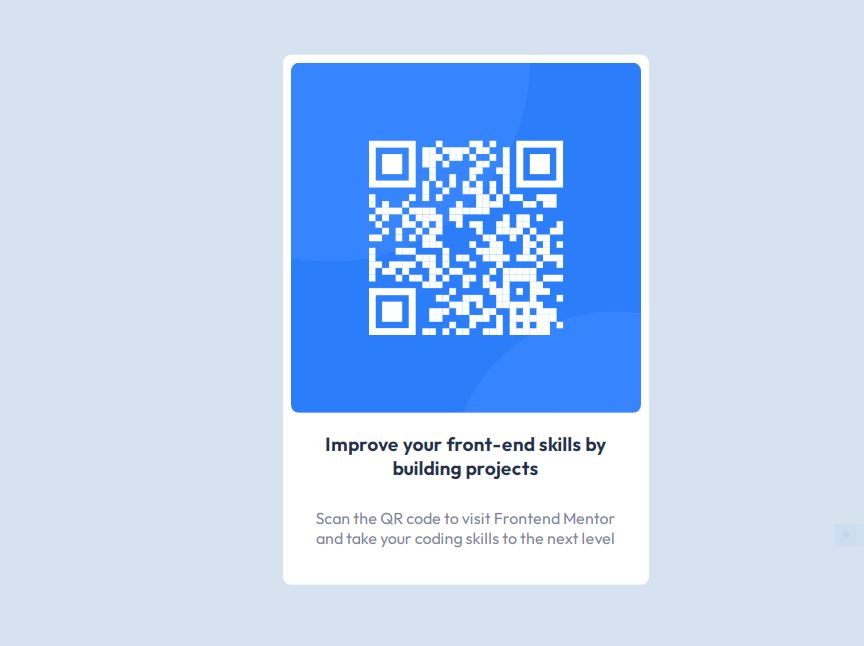
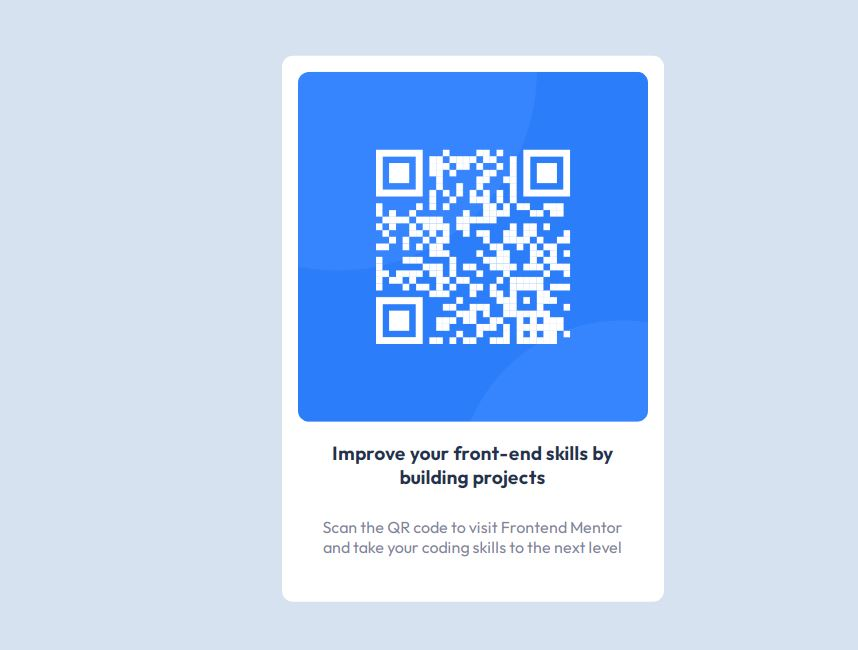
adjusting design

Changed region(s): [[0.3333, 0.0929, 0.7879, 0.9288], [0.4242, 0.2167, 0.6667, 0.5573]]

diff --git a/index.html b/index.html
@@ -8,24 +8,26 @@
   <title>Frontend Mentor | QR code component</title>
 </head>
 <body>
-  <main>
-    <section>
-      <div class="container">
-
-        <div class="qr-code-image-container">
-          <img src = "images/image-qr-code.png" alt ="QR code for frontendmentor.io"/>
+  <div class="main-container">
+    <main>
+      <section>
+        <div class="container">
+  
+          <div class="qr-code-image-container">
+            <img src = "images/image-qr-code.png" alt ="QR code for frontendmentor.io"/>
+          </div>
+  
+          <div class="main-description">
+            Improve your front-end skills by building projects
+          </div>
+  
+          <div class="user-information-container">
+            Scan the QR code to visit Frontend Mentor and take your coding skills to the next level
+          </div>
         </div>
-
-        <div class="main-description">
-          Improve your front-end skills by building projects
-        </div>
-
-        <div class="user-information-container">
-          Scan the QR code to visit Frontend Mentor and take your coding skills to the next level
-        </div>
-      </div>
-    </section>
-  </main> 
+      </section>
+    </main> 
+  </div>
 </body>
 
 <footer>

diff --git a/style.css b/style.css
@@ -18,9 +18,9 @@ body{
     width: 85%;
     max-width: 350px;
     margin: auto;
-    border-radius: 0.5em;
+    border-radius: 0.7em;
     background: hsl(0, 0%, 100%);
-    padding: 0.5rem;
+    padding: 1rem;
     display: flex;
     align-items: center;
     justify-content: center;
@@ -34,13 +34,13 @@ body{
 .qr-code-image-container{
     width: 100%;
     height: 45%;
-    border-radius: 0.5em;
+    border-radius: 0.7em;
 }
 
 .qr-code-image-container img{
     width: 100%;
     height: 100%;
-    border-radius: 0.5em;
+    border-radius: 0.7em;
 }
 
 .main-description{

diff --git a/README.md b/README.md
@@ -24,7 +24,7 @@ This is a solution to a front end development challenge on frontendmentor.io whi
 
 ### Links
 
-- Solution URL: https://isaacharrison28.github.io/QR-code-for-frontendmentor
+- Solution URL: https://github.com/IsaacHarrison28/QR-code-for-frontendmentor
 - Live Site URL: https://isaacharrison28.github.io/QR-code-for-frontendmentor/
 
 ## My process
